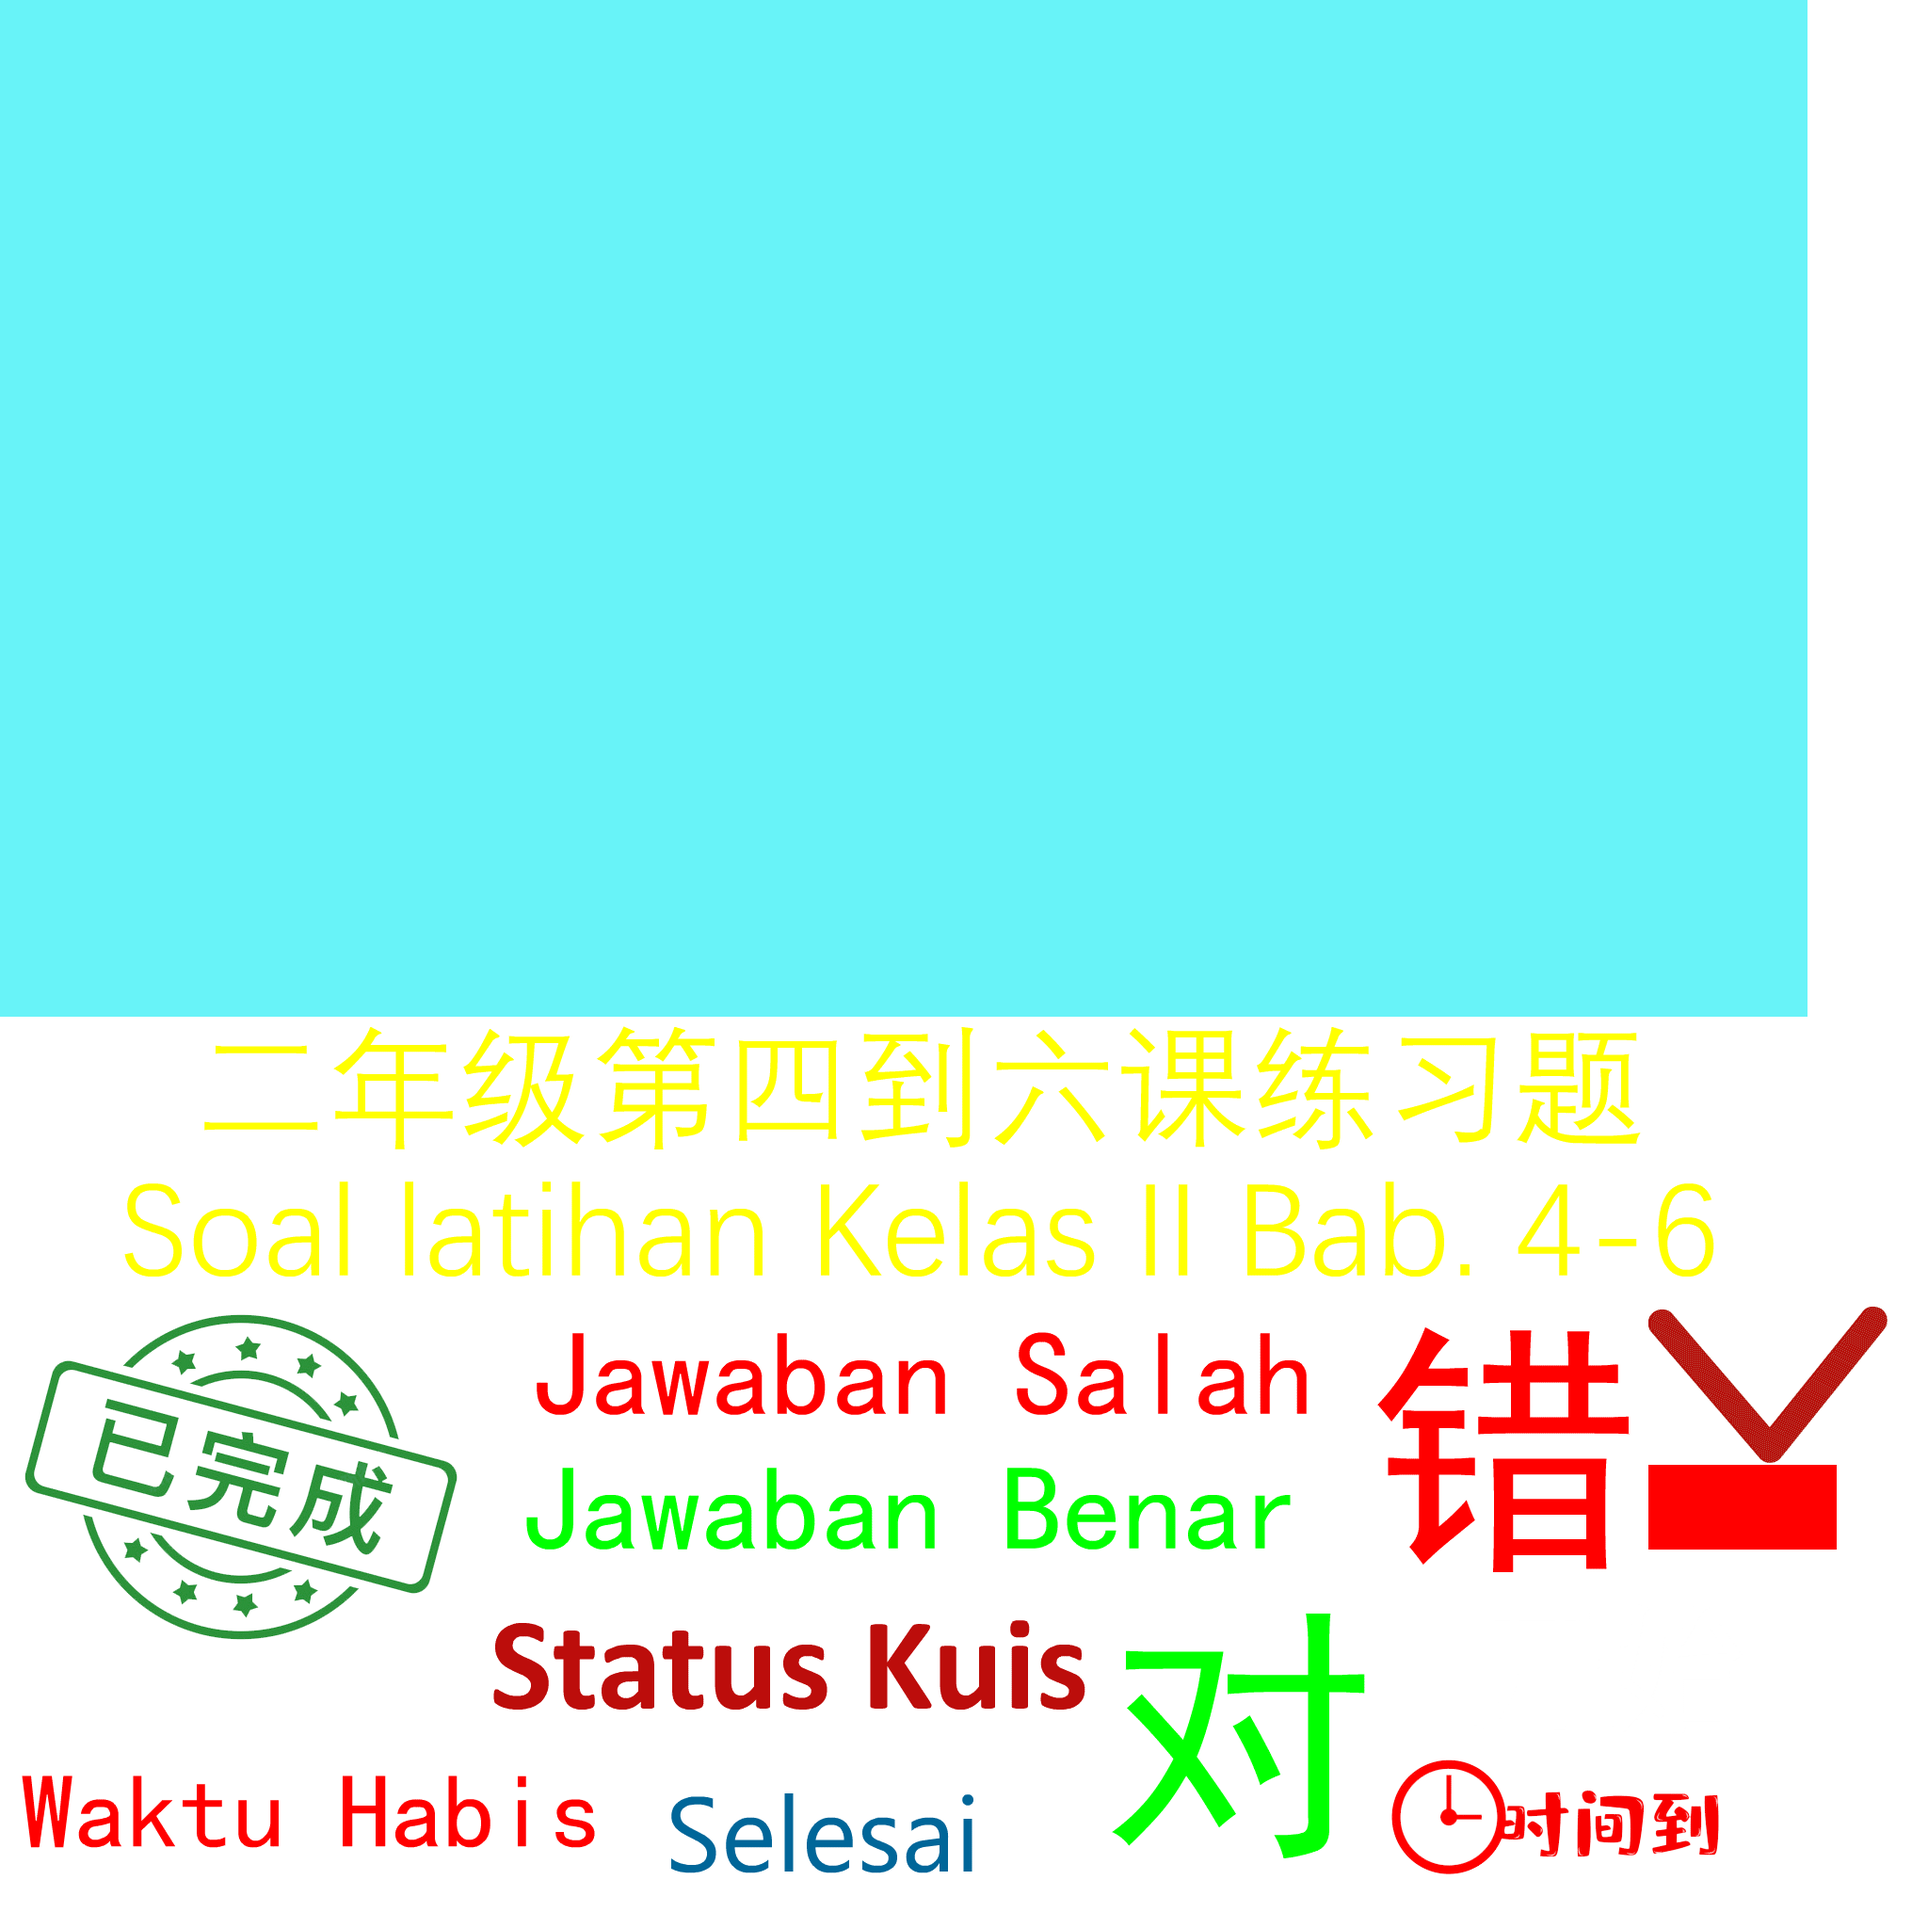
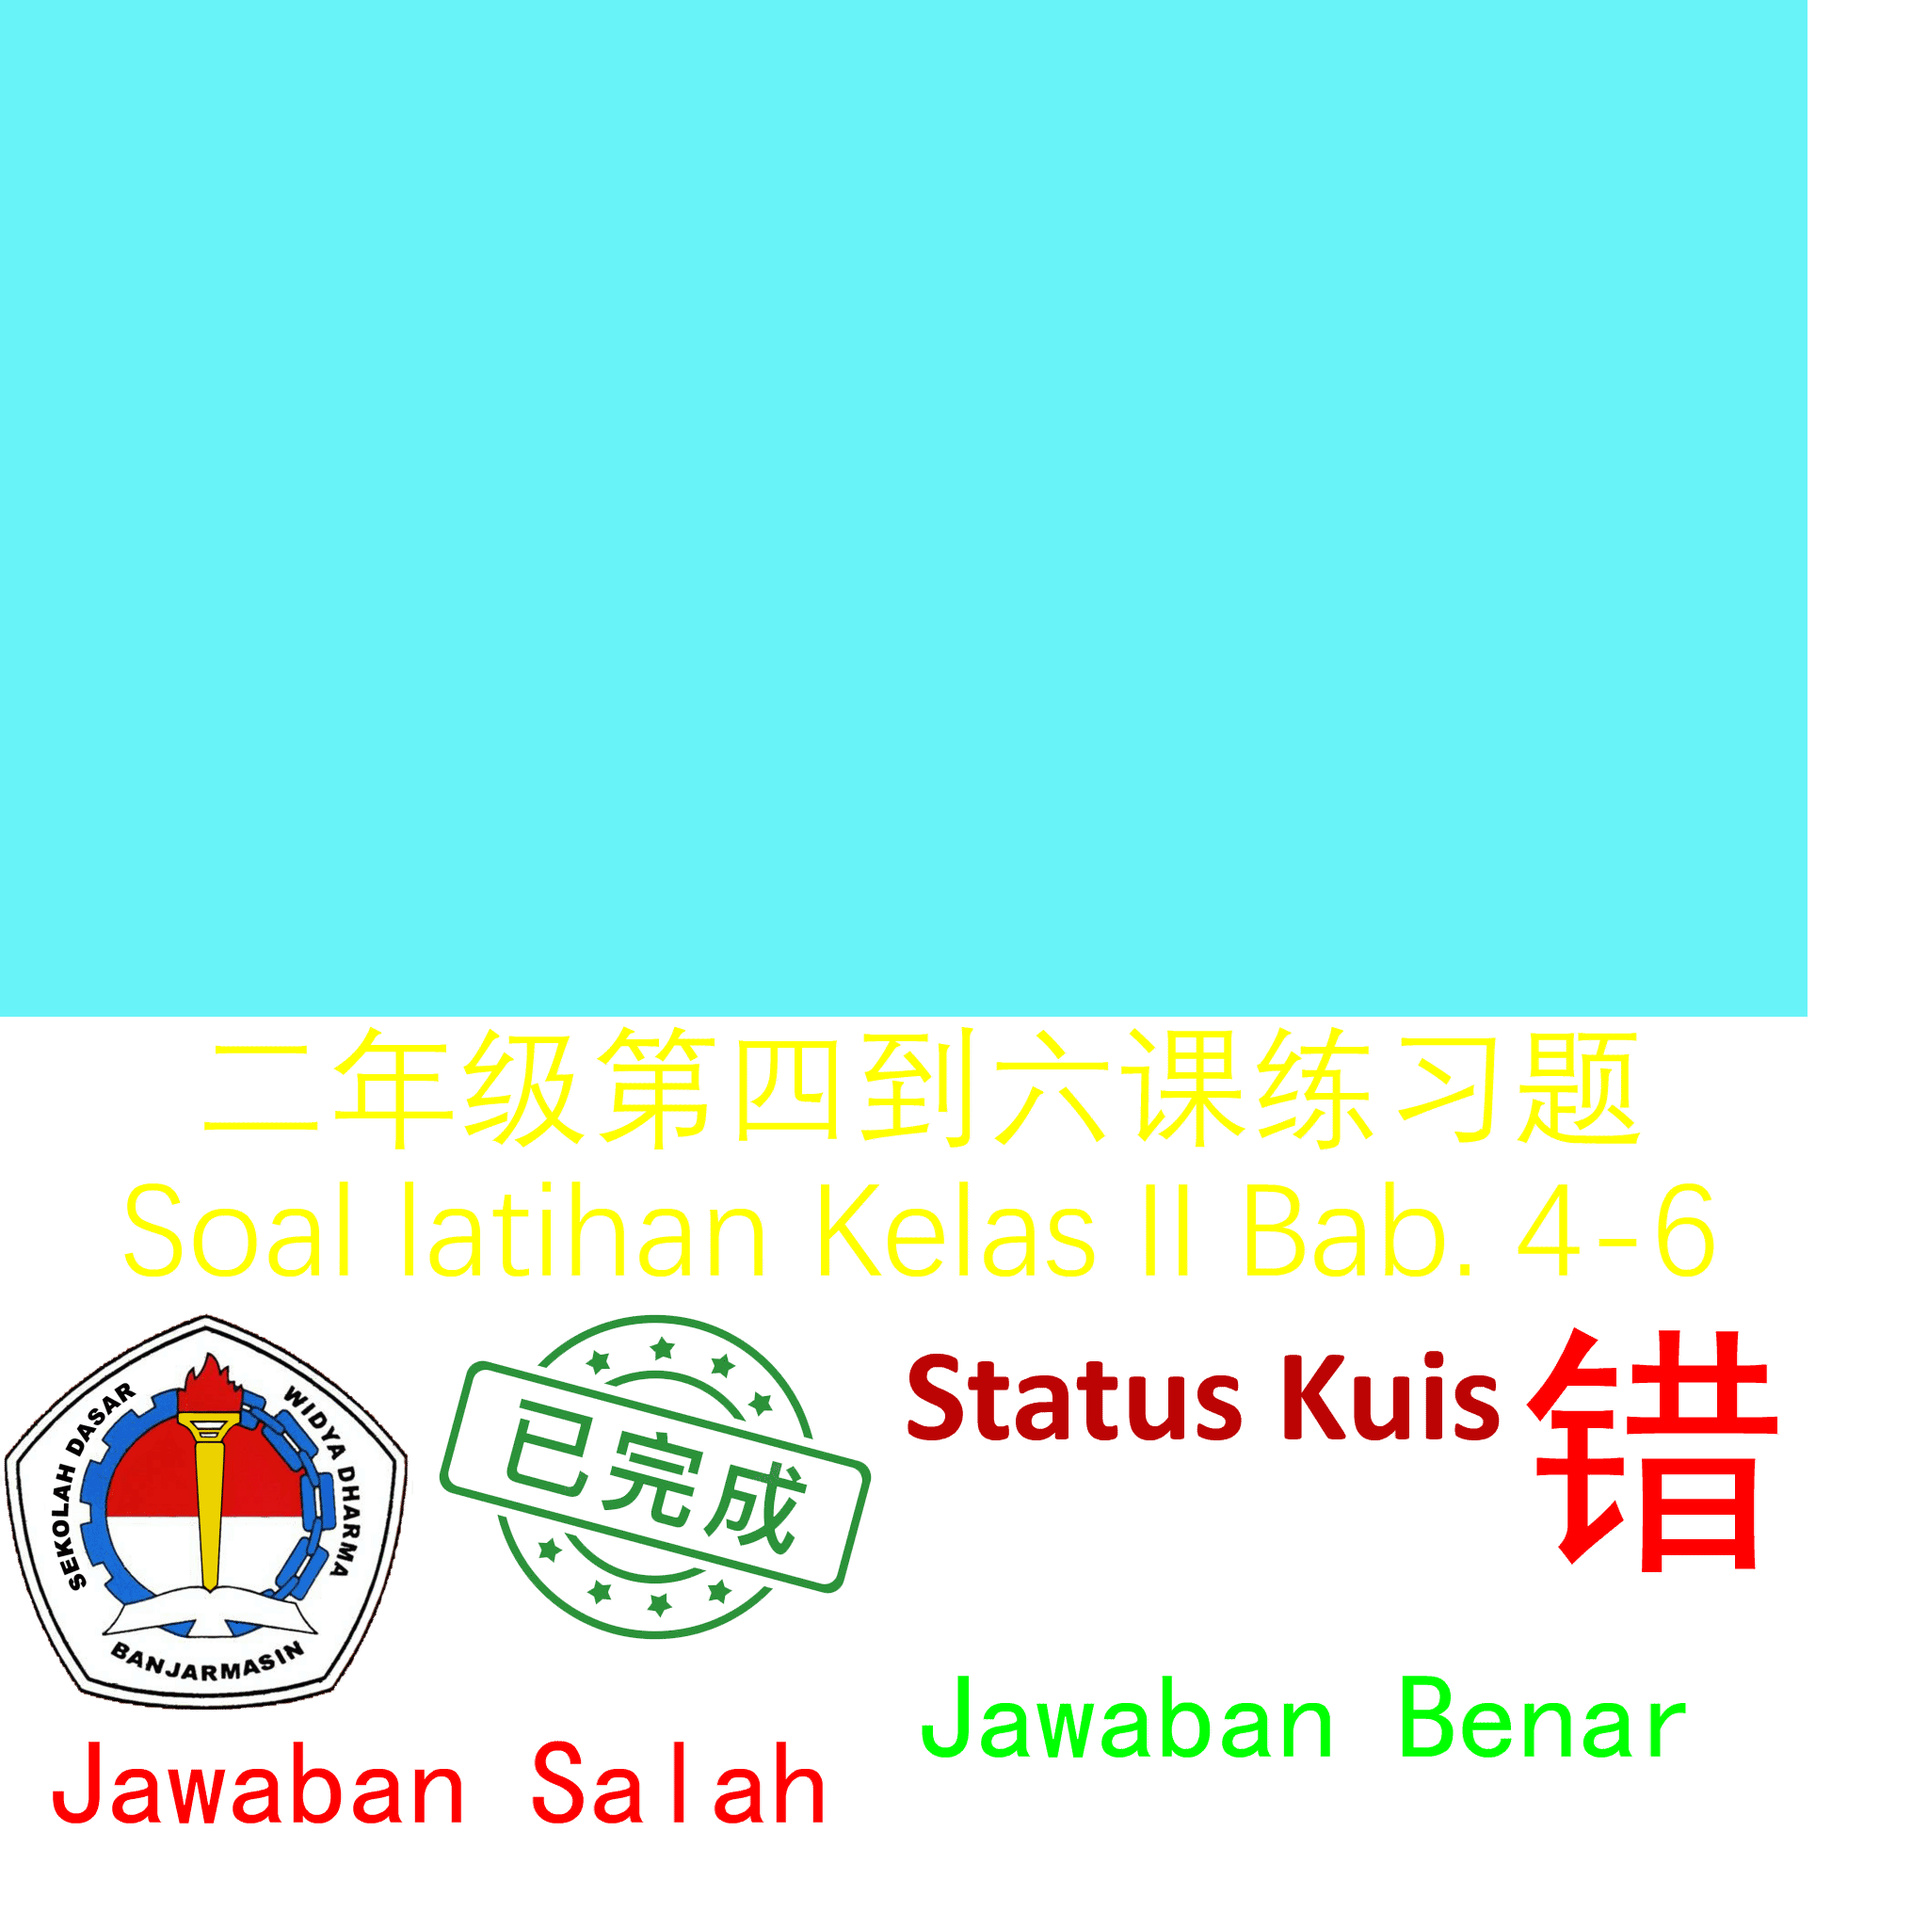
Add files via upload

Changed region(s): [[0.0, 0.6562, 0.9688, 0.9688]]

diff --git a/kls2.js b/kls2.js
@@ -3,7 +3,8 @@
 var p; // shortcut to reference prototypes
 var lib={};var ss={};var img={};
 lib.ssMetadata = [
-		{name:"kls2_atlas_1", frames: [[1469,1691,474,168],[1751,1388,254,166],[514,1674,650,185],[665,1861,419,162],[0,1861,663,125],[514,1388,932,141],[1448,1388,301,301],[514,1531,910,141],[1166,1691,301,301],[0,1082,1955,304],[1751,1556,200,90],[0,0,1920,1080],[0,1388,512,362],[1469,1861,369,138]]}
+		{name:"kls2_atlas_1", frames: [[954,1388,650,185],[0,1822,932,141],[1606,1388,301,301],[934,1752,910,141],[0,1082,1955,304],[0,0,1920,1080],[0,1388,438,432],[440,1388,512,362]]},
+		{name:"kls2_atlas_2", frames: [[303,0,474,168],[665,170,254,166],[0,430,419,162],[0,303,663,125],[0,0,301,301],[779,0,200,90],[421,430,369,138]]}
 ];
 
 
@@ -28,14 +29,14 @@ lib.ssMetadata = [
 
 
 (lib.CachedBmp_10 = function() {
-	this.initialize(ss["kls2_atlas_1"]);
+	this.initialize(ss["kls2_atlas_2"]);
 	this.gotoAndStop(0);
 }).prototype = p = new cjs.Sprite();
 
 
 
 (lib.CachedBmp_9 = function() {
-	this.initialize(ss["kls2_atlas_1"]);
+	this.initialize(ss["kls2_atlas_2"]);
 	this.gotoAndStop(1);
 }).prototype = p = new cjs.Sprite();
 
@@ -43,70 +44,70 @@ lib.ssMetadata = [
 
 (lib.CachedBmp_8 = function() {
 	this.initialize(ss["kls2_atlas_1"]);
-	this.gotoAndStop(2);
+	this.gotoAndStop(0);
 }).prototype = p = new cjs.Sprite();
 
 
 
 (lib.CachedBmp_7 = function() {
-	this.initialize(ss["kls2_atlas_1"]);
-	this.gotoAndStop(3);
+	this.initialize(ss["kls2_atlas_2"]);
+	this.gotoAndStop(2);
 }).prototype = p = new cjs.Sprite();
 
 
 
 (lib.CachedBmp_6 = function() {
-	this.initialize(ss["kls2_atlas_1"]);
-	this.gotoAndStop(4);
+	this.initialize(ss["kls2_atlas_2"]);
+	this.gotoAndStop(3);
 }).prototype = p = new cjs.Sprite();
 
 
 
 (lib.CachedBmp_5 = function() {
 	this.initialize(ss["kls2_atlas_1"]);
-	this.gotoAndStop(5);
+	this.gotoAndStop(1);
 }).prototype = p = new cjs.Sprite();
 
 
 
 (lib.CachedBmp_4 = function() {
 	this.initialize(ss["kls2_atlas_1"]);
-	this.gotoAndStop(6);
+	this.gotoAndStop(2);
 }).prototype = p = new cjs.Sprite();
 
 
 
 (lib.CachedBmp_3 = function() {
 	this.initialize(ss["kls2_atlas_1"]);
-	this.gotoAndStop(7);
+	this.gotoAndStop(3);
 }).prototype = p = new cjs.Sprite();
 
 
 
 (lib.CachedBmp_2 = function() {
-	this.initialize(ss["kls2_atlas_1"]);
-	this.gotoAndStop(8);
+	this.initialize(ss["kls2_atlas_2"]);
+	this.gotoAndStop(4);
 }).prototype = p = new cjs.Sprite();
 
 
 
 (lib.CachedBmp_1 = function() {
 	this.initialize(ss["kls2_atlas_1"]);
-	this.gotoAndStop(9);
+	this.gotoAndStop(4);
 }).prototype = p = new cjs.Sprite();
 
 
 
 (lib.bar1 = function() {
-	this.initialize(ss["kls2_atlas_1"]);
-	this.gotoAndStop(10);
+	this.initialize(ss["kls2_atlas_2"]);
+	this.gotoAndStop(5);
 }).prototype = p = new cjs.Sprite();
 
 
 
 (lib.birutoscahd = function() {
 	this.initialize(ss["kls2_atlas_1"]);
-	this.gotoAndStop(11);
+	this.gotoAndStop(5);
 }).prototype = p = new cjs.Sprite();
 
 
@@ -117,16 +118,23 @@ lib.ssMetadata = [
 p.nominalBounds = new cjs.Rectangle(0,0,4608,2592);
 
 
+(lib.SD = function() {
+	this.initialize(ss["kls2_atlas_1"]);
+	this.gotoAndStop(6);
+}).prototype = p = new cjs.Sprite();
+
+
+
 (lib.selesai = function() {
 	this.initialize(ss["kls2_atlas_1"]);
-	this.gotoAndStop(12);
+	this.gotoAndStop(7);
 }).prototype = p = new cjs.Sprite();
 
 
 
 (lib.waktuhabis = function() {
-	this.initialize(ss["kls2_atlas_1"]);
-	this.gotoAndStop(13);
+	this.initialize(ss["kls2_atlas_2"]);
+	this.gotoAndStop(6);
 }).prototype = p = new cjs.Sprite();
 // helper functions:
 
@@ -737,10 +745,13 @@ if (reversed == null) { reversed = false; }
 	this.instance_1 = new lib.birutoscahd();
 	this.instance_1.setTransform(0,0,0.75,0.6686);
 
-	this.instance_2 = new lib.IMG_20240813_085601();
-	this.instance_2.setTransform(86,36,0.2786,0.2786);
+	this.instance_2 = new lib.SD();
+	this.instance_2.setTransform(62,35,0.5,0.5);
 
-	this.timeline.addTween(cjs.Tween.get({}).to({state:[]}).to({state:[{t:this.instance_1}]},1).to({state:[{t:this.instance_1},{t:this.instance_2}]},4).to({state:[{t:this.instance_1}]},1).wait(7));
+	this.instance_3 = new lib.IMG_20240813_085601();
+	this.instance_3.setTransform(86,36,0.2786,0.2786);
+
+	this.timeline.addTween(cjs.Tween.get({}).to({state:[]}).to({state:[{t:this.instance_1}]},1).to({state:[{t:this.instance_1},{t:this.instance_3},{t:this.instance_2}]},4).to({state:[{t:this.instance_1}]},1).wait(7));
 
 	this._renderFirstFrame();
 
@@ -755,12 +766,13 @@ lib.properties = {
 	color: "#FFFFFF",
 	opacity: 1.00,
 	manifest: [
-		{src:"images/IMG_20240813_085601.png?1727834061446", id:"IMG_20240813_085601"},
-		{src:"images/kls2_atlas_1.png?1727834061284", id:"kls2_atlas_1"},
-		{src:"sounds/wan.mp3?1727834061446", id:"wan"},
-		{src:"sounds/dui.mp3?1727834061446", id:"dui"},
-		{src:"sounds/cuo.mp3?1727834061446", id:"cuo"},
-		{src:"sounds/dao.mp3?1727834061446", id:"dao"}
+		{src:"images/IMG_20240813_085601.png?1727835438377", id:"IMG_20240813_085601"},
+		{src:"images/kls2_atlas_1.png?1727835438237", id:"kls2_atlas_1"},
+		{src:"images/kls2_atlas_2.png?1727835438237", id:"kls2_atlas_2"},
+		{src:"sounds/wan.mp3?1727835438377", id:"wan"},
+		{src:"sounds/dui.mp3?1727835438377", id:"dui"},
+		{src:"sounds/cuo.mp3?1727835438377", id:"cuo"},
+		{src:"sounds/dao.mp3?1727835438377", id:"dao"}
 	],
 	preloads: []
 };

diff --git a/index.html b/index.html
@@ -22,7 +22,7 @@
   }
 </style>
 <script src="https://code.createjs.com/1.0.0/createjs.min.js"></script>
-<script src="kls2.js?1727834061469"></script>
+<script src="kls2.js?1727835438402"></script>
 <script type='text/javascript' src='libs/mpiLib.js'></script>
 <script>
 var canvas, stage, exportRoot, anim_container, dom_overlay_container, fnStartAnimation;
